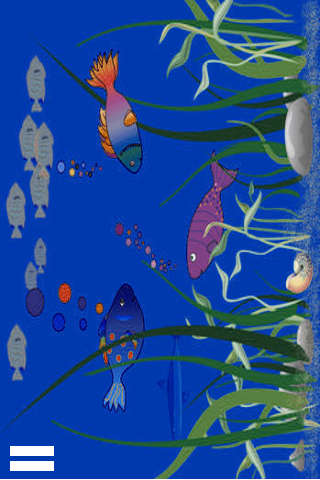
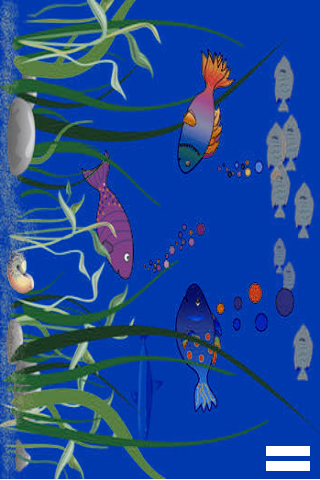
turns out I coded the fish tank the wrong direction, this is the start of flipping it back around

diff --git a/compile.rb b/compile.rb
@@ -51,9 +51,4 @@ if File.exists?( "images" )
   `cp images/* #{ appdir }/`
 end
 
-if File.exists?( "fishies" )
-  puts "* copying fishies"
-  `cp fishies/*png #{ appdir }/`
-end
-
 puts "Done"
